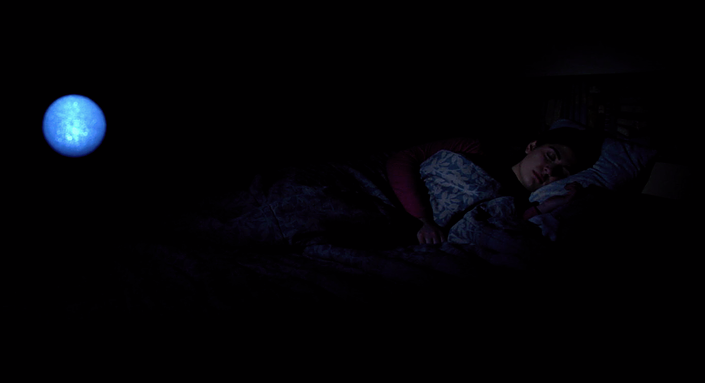
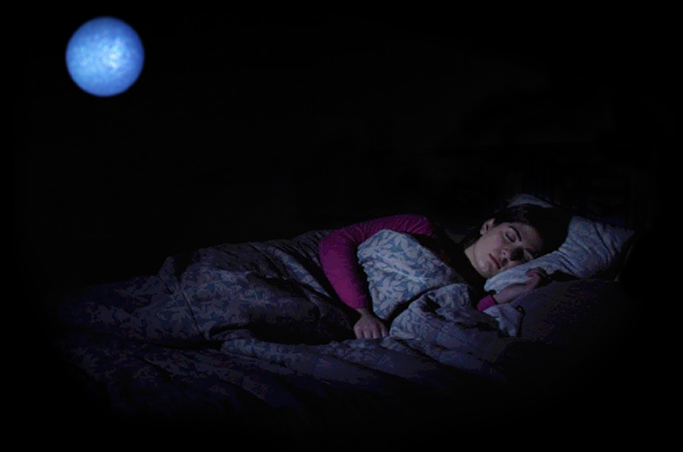
update simplifying css

diff --git a/css/main.css b/css/main.css
@@ -1,7 +1,6 @@
 html
 
 body {
-    margin: 0px;
     background-color: black;
 }
 
@@ -9,6 +8,8 @@ body {
     background-color: black;
     text-align: left;
     margin-top: 20px;
+    font-family: Helvetica;
+    font-size: 16px;
 }
 
 .header-menu a:link, a:hover, a:active {
@@ -41,15 +42,17 @@ body {
 .main-container {
     margin: auto;
     text-align: center;
-    max-width: 650px;
+    max-width: 800px;
+}
+
+.main-container img {
+    width:100%;
 }
 
 .nameplate {
-    display: inline-block;
     text-align:center;
     margin-left: auto;
     margin-right: auto;
-    margin-top: 150px;
     font-family: "Garamond";
     letter-spacing: 0.2em;
     padding: 20px;
@@ -61,25 +64,12 @@ body {
     -1px 1px 0 #000,
      1px 1px 0 #000;
     z-index: 10;
-    //*border: 2px solid whitesmoke; *//
 }
 
 #nameplate-role {
     font-size: 16px;
 }
- 
-.big-image {
-       max-width: 650px;
-}
 
-.big-image img {
-    width:100%;
-    max-width: 650px;
-    position: relative;
-    bottom: 275px;
-    z-index: -10;
-
-}
  
 .content-box {
     overflow: auto;
@@ -104,6 +94,7 @@ body {
 
 #headshot img {
     float: right;
+    width:155px;
 }
 
 .resume-box {
@@ -147,8 +138,10 @@ body {
 footer {
     background-color: black;
     margin: 0px;
-    color: whitesmoke;
+    color: #dbdbdb;
     text-align: center;
+    font-family: "Helvetica";
+    letter-spacing: 0.3em;
     
 }
 
@@ -162,27 +155,11 @@ hr {
 }
 
 
-@media screen and (min-width: 667px) {
+@media screen and (max-width: 680px) {
 
-.header-menu {
-    font-size: 20px;
-        
-    }
-    
 .main-container {
-    width: 90%;
+    width: 95%;
 }
-
-.nameplate {
-    font-size: 44px;
-    margin-top: 50px;
-    }
     
-.big-image img {
-    bottom: 220px;
-    }
-    
-.content-title{
-    margin-left: 0px;
     
 }

diff --git a/index.html b/index.html
@@ -1,19 +1,15 @@
 <!DOCTYPE html>
 <html>
-<head>
+    <head>
    
-<title>Liza Herbert</title>
+        <title>Liza Herbert</title>
+        <link rel="stylesheet" href="/css/main.css">
 
-<link rel="stylesheet" href="/css/main.css">
-
- 
-    
-</head>
-    
-
+    </head>
     
 <body>
-<div class="main-container">
+    <div class="wrapper">
+        <div class="main-container">
     
     <div class="header-menu">
         <div class="menu-item"><a href="index.html">HOME</a></div>
@@ -25,7 +21,7 @@
             Liza Herbert <br> <div id="nameplate-role">DIRECTOR / EDITOR</div>
         </div>
     <div class="big-image">
-        <img src="img/orb-vertical.png">
+        <img src="img/orb-horizontal.png">
     
        
 
@@ -36,7 +32,8 @@
     lizaherbert@hotmail.com
         </footer>
 
-</div>
+        </div>
+    </div>
 </body>    
 </html>
 
